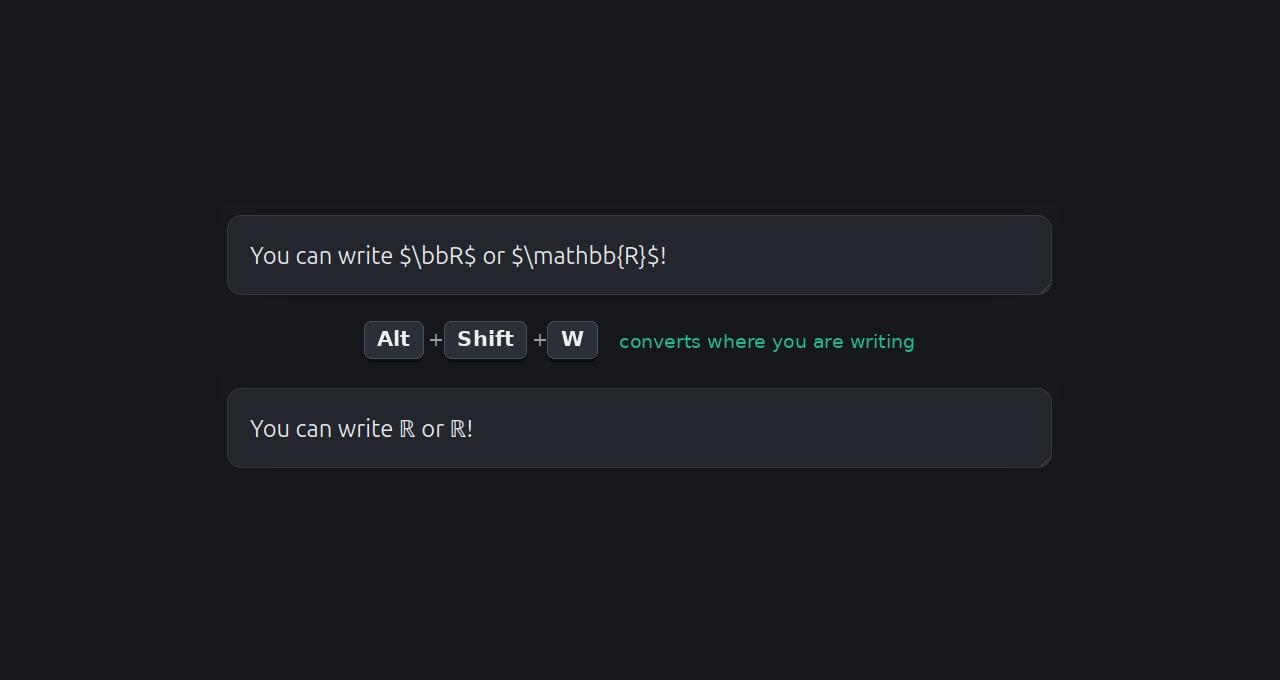
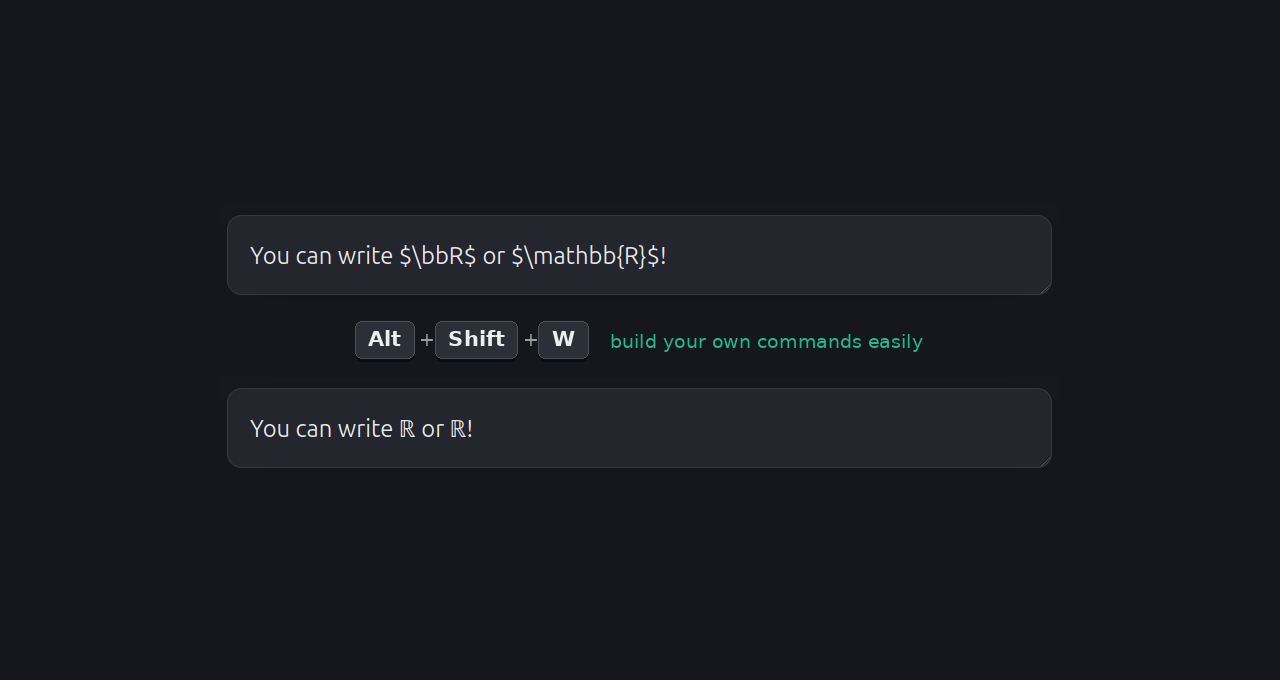
remove twenty images nothing references, and give the built slide its own line
Twelve are the old slideshow, replaced yesterday. The rest had been sitting
unused for longer: the store badges, a GitHub logo, a screenshot of the home
page, and the two Twitter pictures with backgrounds, whose _nobg versions are
the ones on the page.

Four of the twenty were sources rather than dead files -- the 450px favicon
master, the 1200px question mark, and the two Twitter originals. They are in
the history at 65d383c if any of them is wanted again; nothing was cut from
them that is not already committed at the size it is used.

images/ goes from 4.2 MB to 1.9 MB, and every name left in it is free of
spaces, so nothing on the site needs percent-encoding any more.

'\bbR' is about writing your own command, not about where the conversion
happens, so that slide says 'build your own commands easily' rather than
repeating the line the other three carry.

Changed region(s): [[0.25, 0.4632, 0.7188, 0.525]]

diff --git a/tools/build-slides.py b/tools/build-slides.py
@@ -157,7 +157,7 @@ def frames_of(webm, into):
 PAIRS = [
     ("alpha", "converts where you are writing"),
     ("oint",  "converts where you are writing"),
-    ("built", "converts where you are writing"),
+    ("built", "build your own commands easily"),
     ("chess", "850 commands, more than just math"),
 ]
 
